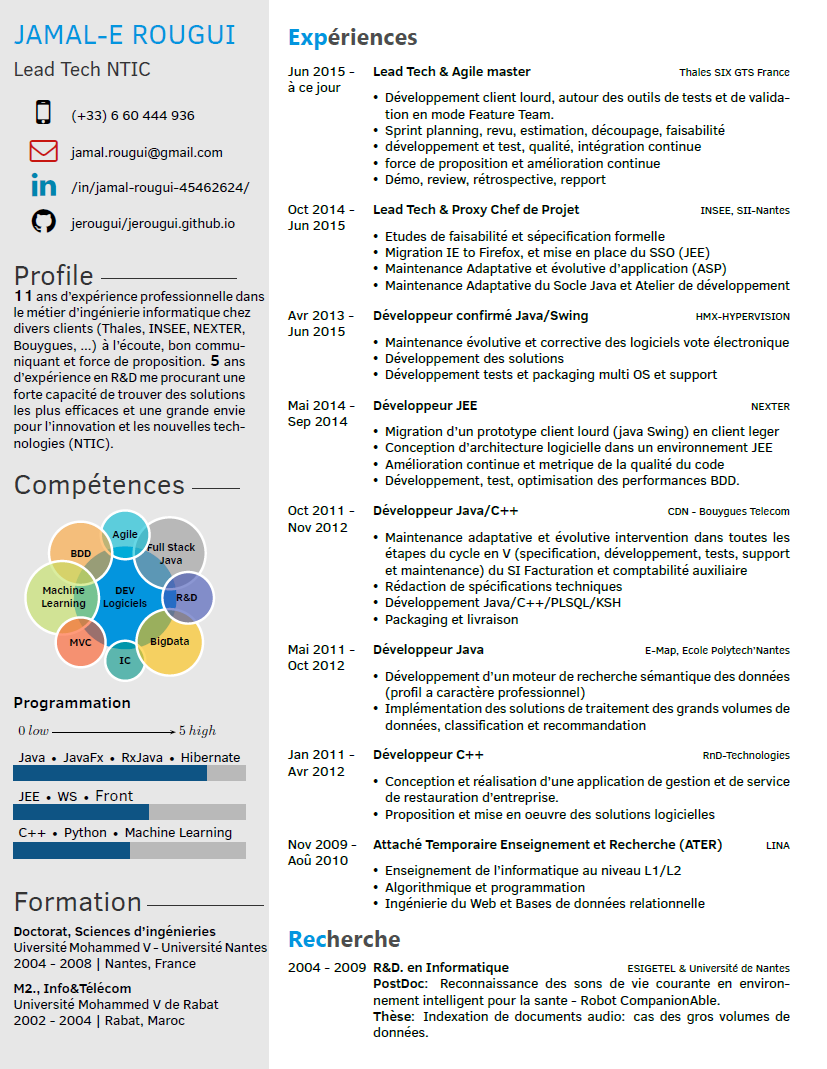
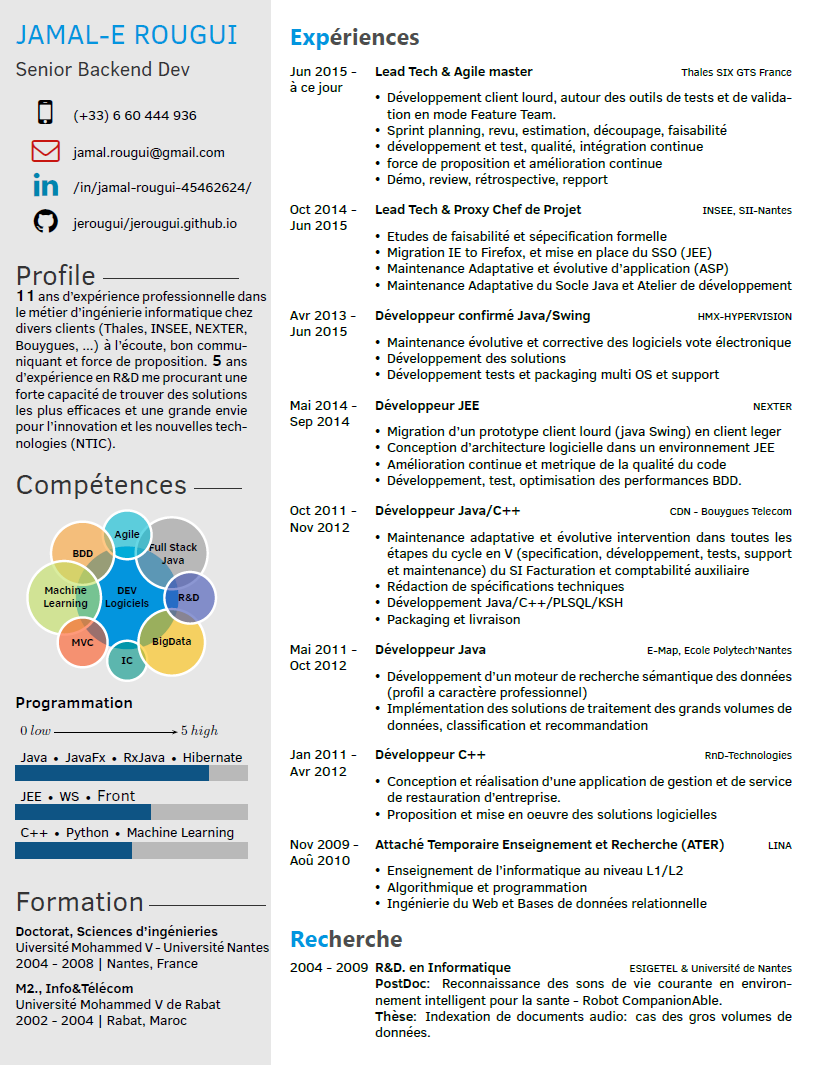
[2022-02] Update expected Job title

diff --git a/template.tex b/template.tex
@@ -1,7 +1,7 @@
 %%%%%%%%%%%%%%%%%%%%%%%%%%%%%%%%%%%%%%%%%
 % Twenty Seconds Resume/CV
 % LaTeX Template
-% Version 1.0 (30/6/20)
+% Version 1.0 (08/1/2022)
 %
 % Original author:
 % Carmine Spagnuolo (cspagnuolo@unisa.it) and with major modifications by 
@@ -19,41 +19,36 @@
 %----------------------------------------------------------------------------------------
 %	PACKAGES AND OTHER DOCUMENT CONFIGURATIONS
 %----------------------------------------------------------------------------------------
-\documentclass[letterpaper]{twentysecondcv} % a4paper for A4
+\documentclass[letterpaper]{twentysecondcv_en} % a4paper for A4
 \newfontfamily{\FAA}{[FontAwesome.otf]}
 % Command for printing skill overview bubbles
 \newcommand\skills{ 
 ~
 	\smartdiagram[bubble diagram]{
-        \textbf{DEV}\\\textbf{Logiciels},
-        \textbf{~~Full Stack~~}\\\textbf{~~Java~~},
+        \textbf{~~Dev~~}\\\textbf{~~Java~~},
+       \textbf{Backend}\\\textbf{Dev},
         \textbf{~~Agile~~},
-        \textbf{~~~~~~BDD~~~~~~},
-        \textbf{~~~Machine~~~}\\\textbf{~~~Learning~~~},
-        \textbf{~~~MVC~~~},
-        \textbf{~~~IC~~~},
-        \textbf{~~~BigData~~~},	
-        \textbf{~~~R\&D~~~}
+        \textbf{~~~~~~R\&D~~~~~~},
+        \textbf{Data}\\\textbf {Analytics}
     }
 }
 
 \aboutme{\\
- {\large \textbf{9}} ans d'expérience professionnelle dans le métier d'ingénierie informatique chez divers clients (Thales, INSEE, NEXTER, Bouygues, ...) à l'écoute, bon communiquant et force de proposition.
- {\large \textbf{5}} ans d'expérience en R\&D me procurant une forte capacité de trouver des solutions les plus efficaces et une grande envie pour l'innovation et les nouvelles technologies (NTIC).
+Backend Developer professionally with 11+ years of experience in the software development cycle. Theory and practice in object-oriented modeling, design patterns, and data structures. Self learner, active technology watch, passion for problem-solving, and analysis of the complexity of algorithms in time and space to find efficient algorithmic solutions. Development of web and stand-alone applications using Java and C.
 %Passionné par l'innovation et la veille technique, toujours attiré par des projet innovant et "from skratch" faisant appel à des outils et Frameworks maintenable et libres.
 }
 
 % Programming skill bars
-\programming{{C++ $\textbullet$ BigData  $\textbullet$ Machine Learning / 3}, {SQL $\textbullet$ PlSQL $\textbullet$ \large Python / 3.5}, {Java $\textbullet$ JavaFx $\textbullet$ Hibernate / 5}}
+\programming{{C++ $\textbullet$ Python  $\textbullet$ Machine Learning / 3}, {JEE $\textbullet$ WS $\textbullet$ \large Front / 3.5}, {Java $\textbullet$ JavaFx $\textbullet$ RxJava $\textbullet$ Hibernate / 5}}
 
 % Projects text
 \education{
-\textbf{Doctorat, Sciences d'ingénieries}\\
-Uiversité Mohammed V - Université Nantes \\
+\textbf{PhD., Computer Science}\\
+University of Nantes \\
 2004 - 2008 | Nantes, France
 
-\textbf{M2., Info\&Télécom} \\
-Université Mohammed V de Rabat \\
+\textbf{MSc., Info\&Telecom} \\
+University Mohammed V \\
 2002 - 2004 | Rabat, Maroc
 }
 
@@ -63,7 +58,7 @@ Université Mohammed V de Rabat \\
 % If you don't need one or more of the below, just remove the content leaving the command, e.g. \cvnumberphone{}
 
 \cvname{JAMAL-E ROUGUI} % Your name
-\cvjobtitle{ Lead Tech NTIC } % Job
+\cvjobtitle{Backend Java Developer} % Job
 % title/career
 
 \cvlinkedin{/in/jamal-rougui-45462624/}
@@ -82,145 +77,127 @@ Université Mohammed V de Rabat \\
 %	 EXPERIENCE
 %----------------------------------------------------------------------------------------
 
-\section{Expériences}
+\section{Experience}
 
 \begin{twenty} % Environment for a list with descriptions
 \twentyitem
     	{Jun 2015 -}
-		{à ce jour}
-        {Lead Tech \& Agile master}
-        {\href{https://www.thalesgroup.com/fr}{Thales SIX GTS France}}
+		{present}
+        {Lead and back-end Java Dev}
+        {\href{https://www.thalesgroup.com/fr}{SII - for Thales SIX GTS France}}
         {}
-        {\begin{itemize} 		
-      	\item Développement client lourd, autour des outils de tests et de validation en mode Feature Team.
-        \item Sprint planning, revu, estimation, découpage, faisabilité
-        \item développement et test, qualité, intégration continue
-        \item force de proposition et amélioration continue
-        \item Démo, review, rétrospective, repport
+        {\begin{itemize} 
+    		\item Lead and contribute to the implementation of improvements and PO support.
+    		\item Design and develop following the Scrum, squad-team framework.
+    		\item Design unit tests, end-to-end test and black-box test using JSON.
+		\item Maintains technical documentation
+		\medskip   \newline \footnotesize  Java8, RxJava, JavaFx, Spring, Hibernate, H2 database in memory, Liquibase, Devops, EasyMock, Git, Rest, Jenkins.
         \end{itemize}}
         \\
 	\twentyitem
     	{Oct 2014 -}
 		{Jun 2015}
-        {Lead Tech \& Proxy Chef de Projet}
-        {\href{https://www.insee.fr/fr/accueil}{INSEE, SII-Nantes}}
+        {Full Stack developer}
+        {\href{https://www.insee.fr/fr/accueil}{SII - for INSEE, SII-Nantes}}
         {}
         {
         {\begin{itemize}
-		\item Etudes de faisabilité et sépecification formelle
-		\item Migration IE to Firefox, et mise en place du SSO (JEE)
-		\item Maintenance Adaptative et évolutive d'application (ASP)
-		\item Maintenance Adaptative du Socle Java et Atelier de développement
+		\item Write technical requirement specification.
+		\item Front-end migration IE to firefox using javascript and JQuery.
+		\item Build and maintain a web application
+		 \medskip   \newline \footnotesize  JAVASCRIPT, JQUERY, ASP, IIS7, JAVASCRIPT, NSIS, ADMINSTUDIO REPACKAGER, INSTALLSHEILD, SVN.
     	\end{itemize}}
         }
      \\
      \twentyitem
-   		{Avr 2013 -}
-		{Jun 2015}
-        {Développeur confirmé Java/Swing}
-        {\href{}{HMX-HYPERVISION}}
+   	{Apr 2013 -}{Jun 2015}
+        {Developer Java/Swing}
+        {\href{}{SII - for HMX-HYPERVISION}}
         {}
         {
-        \begin{itemize}
-        \item Maintenance évolutive et corrective des logiciels vote électronique
-        \item Développement des solutions
-        \item Développement tests et packaging multi OS et support
-    	\end{itemize}
+       	 \begin{itemize}
+        	\item  Design and develop a stand-alone application based SWING IHM
+       		\item Assist end users to ensure continuity of service
+	 \medskip   \newline \footnotesize  JAVA, SWING, ANT, PROCESSING, VLC-J, XSTREAM, J2DXX, LAUNCH4J, INNO SETUP	
+    	\end{itemize}	
     	}
 	\\   
-		\twentyitem
-		{Mai 2014 -}
-		{Sep 2014}
-		{Développeur JEE}
-		{\href{https://www.nexter-group.fr/}{NEXTER}}
-		{}
-		{
-		\begin{itemize}
-		\item Migration d'un prototype client lourd (java Swing) en client leger
-		\item Conception d'architecture logicielle dans un environnement JEE
-		\item Amélioration continue et metrique de la qualité du code
-		\item Développement, test, optimisation des performances BDD.
-		\end{itemize}
-		}       
+	\twentyitem
+	{May 2014 -}{Sep 2014}
+	{JEE developer}
+	{\href{https://www.nexter-group.fr/}{SII - for NEXTER}}
+	{}
+	{
+	\begin{itemize}
+		\item Migration of stand-alone application to Web application based Spring MVC framework 
+		\item JEE application conception and IC platform
+		\item Code review, improve best practices and DB model and query optimization  
+	\medskip   \newline \footnotesize  J2EE, SPRING MVC, SPRING SECURITY, TILES JSP, HIBERNATE, APACHE TOMCAT MYSQL, MAVEN, JUNIT, JENKINS
+	\end{itemize}
+	}       
        \\
-	    \twentyitem
-	    {Oct 2011 -}
-	    {Nov 2012}
-	    {Développeur Java/C++}
-	    {\href{https://www.jobs.bouyguestelecom.fr/}{CDN - Bouygues Telecom}}
-	    {}
-	    {
-	    \begin{itemize}
-	    \item Maintenance adaptative et évolutive intervention dans toutes les étapes du cycle en V (specification, développement, tests, support et maintenance) du SI Facturation et comptabilité auxiliaire
-	    \item Rédaction de spécifications techniques
-	    \item Développement Java/C++/PLSQL/KSH
-	    \item Packaging et livraison	
+	\twentyitem
+	{Oct 2011 -}  {Nov 2012}
+	 {Java/C++ developer}
+	{\href{https://www.jobs.bouyguestelecom.fr/}{SII - for CDN - Bouygues Telecom}}
+	{}
+	 {
+	   \begin{itemize}
+	    	\item Write technical specifications
+	    	\item Design and develop a CXF WS and backend
+		 \medskip   \newline\footnotesize   C/C++, JAVA, J2EE, WEBLOGIC, JUNIT, WS (CXF, SOAPUI), KSH, ECLIPSE, PL/SQL, SQL ORACLE, GEXCALIBER, QUALITE CENTER, CRUISECONTROL, CONTINUUS, SVN, WSDL, XSD
 	    \end{itemize}
 	    }
-    
 	   \\
 	    \twentyitem
-	    {Mai 2011 -}
+	    {May 2011 -}
 	    {Oct 2012}
-	    {Développeur Java}
-	    {\href{}{E-Map, Ecole Polytech'Nantes}}
+	    {Java developer}
+	    {\href{}{E-Map, Polytech'Nantes}}
 	    {}
 	    {
 	    \begin{itemize}
-	    \item Développement d'un moteur de recherche sémantique des données (profil a caractère professionnel)
-	    \item Implémentation des solutions de traitement des grands volumes de données, classification et recommandation	
+	    \item Develop semantic search engine with data stream of professional profile
+	    \item Big data analytics learning process, classification and recommendation
+	\medskip   \newline \footnotesize  JEE, profile API, UML, SQL SERVER, SVN
 	    \end{itemize}
 	    }
 
 	   \\
 	    \twentyitem
-	    {Jan 2011 -}
-	    {Avr 2012}
-	    {Développeur C++}
-	    {\href{}{RnD-Technologies}}
+	    {Oct 2009 -}
+	    {Aug 2010}
+	    {University educator}
+	    {\href{}{Faculty of Sciences - University of Nantes }}
 	    {}
 	    {
 	    \begin{itemize}
-		\item Conception et réalisation d'une application de gestion et de service de restauration d'entreprise.
-		\item Proposition et mise en oeuvre des solutions logicielles	
+		\item Web engineering, databases, algorithmics, computer and Internet certificate
+	 \medskip   \newline \footnotesize  JAVASCRIPT, HTML, CSS, WEB, PHP, SQL, ORACLE
 	    \end{itemize}
 	    }
 
-	   \\
-		\twentyitem
-		{Nov 2009 -}
-		{Aoû 2010}
-		{Attaché Temporaire Enseignement et Recherche (ATER)}
-		{\href{http://www.lina.univ-nantes.fr/}{LINA}}
-		{}
-		{
-		\begin{itemize}
-		\item Enseignement de l'informatique au niveau L1/L2
-		\item Algorithmique et programmation
-		\item Ingénierie du Web et Bases de données relationnelle
-		\end{itemize}
-		}
+	   \\		
 	%\twentyitem{<dates>}{<title>}{<location>}{<description>}
 \end{twenty}
 
 %----------------------------------------------------------------------------------------
 %	 RESEARCH
 %----------------------------------------------------------------------------------------
-\section{Recherche}
+\section{Research}
 \begin{twenty}
 	\twentyitem
     	{2004 - 2009}
 		{}
-        {R\&D. en Informatique}
-        {\href{https://www.univ-nantes.fr/}{ESIGETEL \& Université de Nantes}}
+        {R\&D Computer Science}
+        {\href{https://www.univ-nantes.fr/}{ESIGETEL \& University of Nantes}}
         {}
-	       {
-	        \textbf{PostDoc}: Reconnaissance des sons de vie courante en environnement intelligent pour la sante - Robot CompanionAble. \\
-	       	\textbf{Thèse}: Indexation de documents audio: cas des gros volumes de données.
+	       {       
 	        {
-	        %\begin{itemize}
-	        %\item 
-			%\end{itemize}
+	       \begin{itemize}
+	       \item \textbf{Post-PhD}: Everyday sounds recognition in an smartHome environment - Robot CompanionAble .
+	       \item	\textbf{PhD thesis}: Indexing audio documents: the case of bigData and data stream.
+	      \end{itemize}
 			}
 	       }
   

diff --git a/CV_JER_01_2022_FR.tex b/CV_JER_01_2022_FR.tex
@@ -63,7 +63,7 @@ Université Mohammed V de Rabat \\
 % If you don't need one or more of the below, just remove the content leaving the command, e.g. \cvnumberphone{}
 
 \cvname{JAMAL-E ROUGUI} % Your name
-\cvjobtitle{ Lead Tech NTIC } % Job
+\cvjobtitle{ Senior Backend  Dev} % Job
 % title/career
 
 \cvlinkedin{/in/jamal-rougui-45462624/}
